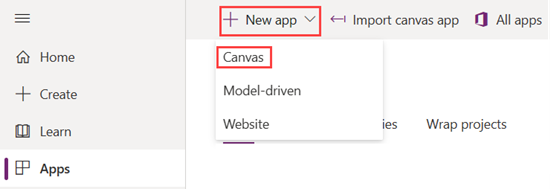
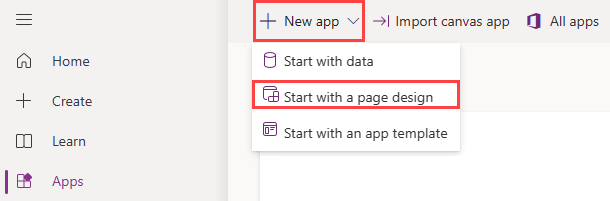
Power Apps

diff --git a/data-explorer/power-apps-connector.md b/data-explorer/power-apps-connector.md
@@ -35,16 +35,13 @@ Azure Data Explorer is a fast, fully managed data analytics service for real-tim
 
 For more information on the Azure Data Explorer connector in :::no-loc text="Power Apps":::, see [Azure Data Explorer connector](/connectors/kusto)
 
-## 2- Create App
+## 2- Create app
 
 1. On the left menu, select **Apps**.
-1. Select **+ New app** > **Canvas**.
+1. Select **+ New app** > **Start with a page design**.
 
     :::image type="content" source="media/power-apps-connector/create-new-app.png" alt-text="Screenshot of the apps page, showing the create a new canvas app button.":::
-
-1. Under **App name**, enter a name for your app. By default, **Format** is set to **Tablet**.
-1. Select Create.
-    :::image type="content" source="media/power-apps-connector/blank-canvas.png" alt-text="Screenshot of the new app page, showing highlighting the tablet layout option.":::
+1. Select **Blank canvas**. By default, **Tablet** format is selected.
 
 ### Add Connector
 
@@ -57,15 +54,11 @@ For more information on the Azure Data Explorer connector in :::no-loc text="Pow
 
     :::image type="content" source="media/power-apps-connector/data-connectors-adx.png" alt-text="Screenshot of the app page showing a list of data connectors. The connector titled Azure Data Explorer is highlighted.":::
 
-Under **Data**, you'll now see the **Azure Data Explorer** app in the list of connectors.
+**Azure Data Explorer** is now added as a data source.
 
-Before you create a data table and add a data source, you need to enable **Dynamic schema** and set your data row limit. Both of these are configured in the canvas **Settings**.
+### Configure data row limit
 
-### Configure Settings
-
-#### Data row limit
-
-Set how many records are retrieved from server-based connections where delegation is not supported.
+Optionally, you can set how many records are retrieved from server-based connections where delegation isn't supported.
 
 1. On the menu bar, select **Settings**.
 1. In **General** settings, scroll to **Data row limit**, and then set your returned records limit. The default limit is 500.
@@ -75,22 +68,6 @@ Set how many records are retrieved from server-based connections where delegatio
     > [!NOTE]
     > The limit value for returned records is between 1 and 2,000.
 
-#### Dynamic schema
-
-Power Apps generally uses a fixed set of fields returned by the data source. However, some data sources may return a different set of fields depending on the service call parameter values. Such service calls are considered to have dynamic schema since fields in the service call response change dynamically depending on how the service is called.
-
-For more information on working with dynamic schema data sources in Power Apps, see [Dynamic schema](/power-apps/maker/canvas-apps/working-with-dynamic-schema).
-
-To capture and enable dynamically returned fields, turn on the **Dynamic schema** feature.
-
-1. In the **Settings** menu, select **Upcoming features**.
-1. In the search box, enter **Dynamic schema**.
-1. Turn on the feature, and the close the settings window.
-
-    :::image type="content" source="media/power-apps-connector/dynamic-schema.png" alt-text="Screenshot of the settings page, showing the turn on dynamic schema setting.":::
-
-1. Select the **Save** icon on the rightmost of the menu bar, and refresh your canvas.
-
 ### Add Dropdown
 
 1. On the menu bar, select **+Insert**.
@@ -99,18 +76,18 @@ To capture and enable dynamically returned fields, turn on the **Dynamic schema*
 1. Under **Data**, replace the placeholder text for **Items** with:
 
     ```kusto
-    ["CALIFORNIA","MICHIGAN"]
+    ["NEW YORK","TEXAS"]
     ```
 
     A dropdown menu appears on the canvas. Once you have data, you can select California or Michigan by expanding the menu.
 
-    :::image type="content" source="media/power-apps-connector/populate-dropdown.png" alt-text="Screenshot of the app page, showing the populate items in dropdown menu." lightbox="media/power-apps-connector/populate-dropdown.png":::
+    :::image type="content" source="media/power-apps-connector/populate-dropdown.png" alt-text="Screenshot of the app page, showing the populated items in dropdown menu." lightbox="media/power-apps-connector/populate-dropdown.png":::
 
-1. With the dropdown still selected, replace the placeholder text for **OnChange** with the following formula:
+1. With the dropdown still selected, replace the placeholder text for **OnChange** with the following formula.
 
     ```kusto
     ClearCollect(
-    Results,
+    KustoQueryResults,
     AzureDataExplorer.listKustoResultsPost(
     "https://help.kusto.windows.net",
     "Samples",
@@ -119,34 +96,41 @@ To capture and enable dynamically returned fields, turn on the **Dynamic schema*
     )
     ```
 
-    You'll see a warning icon when the formula uses service calls that support dynamic schema. When you expand the formula bar, you'll see a new button named **Capture schema**.
-
-1. Select **Capture schema**. Allow time for processing.
-
-    :::image type="content" source="media/power-apps-connector/capture-schema.png" alt-text="Screenshot of the app page, showing the select capture schema button in the dropdown menu.":::
-
 ### Add Data Table
 
 1. Select **+Insert** in the menu bar.
 1. Select **Layout** > **Data table**. Reposition the data table as needed.
-1. Select the **Properties** tab in the **Properties pane**, and then expand the **Data source** options.
-1. Select **Results**.
+1. In the properties pane, select the **Advanced** tab.
+1. Under **Data**, replace the placeholder text for **Items** with the following function. The following function specifies the desired column type to be mapped out to the formula in [Add Dropdown](#add-dropdown).
+
+    ```kusto
+    ForAll( 
+    KustoQueryResults, 
+    { 
+    EventId: Value(Value.EventId), 
+    EventType: Text(Value.EventType),
+    DamageProperty: Value(Value.DamageProperty) 
+    } 
+    )
+    ```
+
+1. In the properties pane, select the **Properties** tab. The **Data source** is autopopulated with the source specified in the **Items** section of the data table. In this example, the source is `KustoQueryResults`.
 1. Select **Edit fields**, and then select **+ Add field**.
 
-    :::image type="content" source="media/power-apps-connector/data-table.png" alt-text="Screenshot of the app page, showing the repositioning of a table and adding border." lightbox="media/power-apps-connector/data-table.png":::
+    :::image type="content" source="media/power-apps-connector/data-table.png" alt-text="Screenshot of the app canvas showing the selected columns to be added to the data table." lightbox="media/power-apps-connector/data-table.png":::
 
-1. Select desired fields and select **Add**. A preview of the selected data table appears.
+1. Select desired fields and then select **Add**. A preview of the selected data table appears.
 
     :::image type="content" source="media/power-apps-connector/preview-table.png" alt-text="Screenshot of the app page, showing a preview of the table populated with data.":::
 
-### Validate
+1. On the top right corner, select **Save**, and then enter a name for your app.
+
+## 3- Validate app
 
 1. Select the **Play** button on the rightmost of the menu bar, or select **F5** to preview the app.
 1. Try the dropdown, scroll through the data table, and confirm successful data retrieval and presentation.
 
-    :::image type="content" source="media/power-apps-connector/preview-app.png" alt-text="Screenshot of the app page, showing a preview the new app with data from Azure Data Explorer.":::
-
-### Limitations
+## Limitations
 
 * :::no-loc text="Power Apps"::: has a limit of up to 2,000 results records returned to the client. The overall memory for those records can't exceed 64 MB and a time of seven minutes to run.
 * The connector doesn't support the [fork](./kusto/query/forkoperator.md) and [facet](./kusto/query/facetoperator.md) operators.
